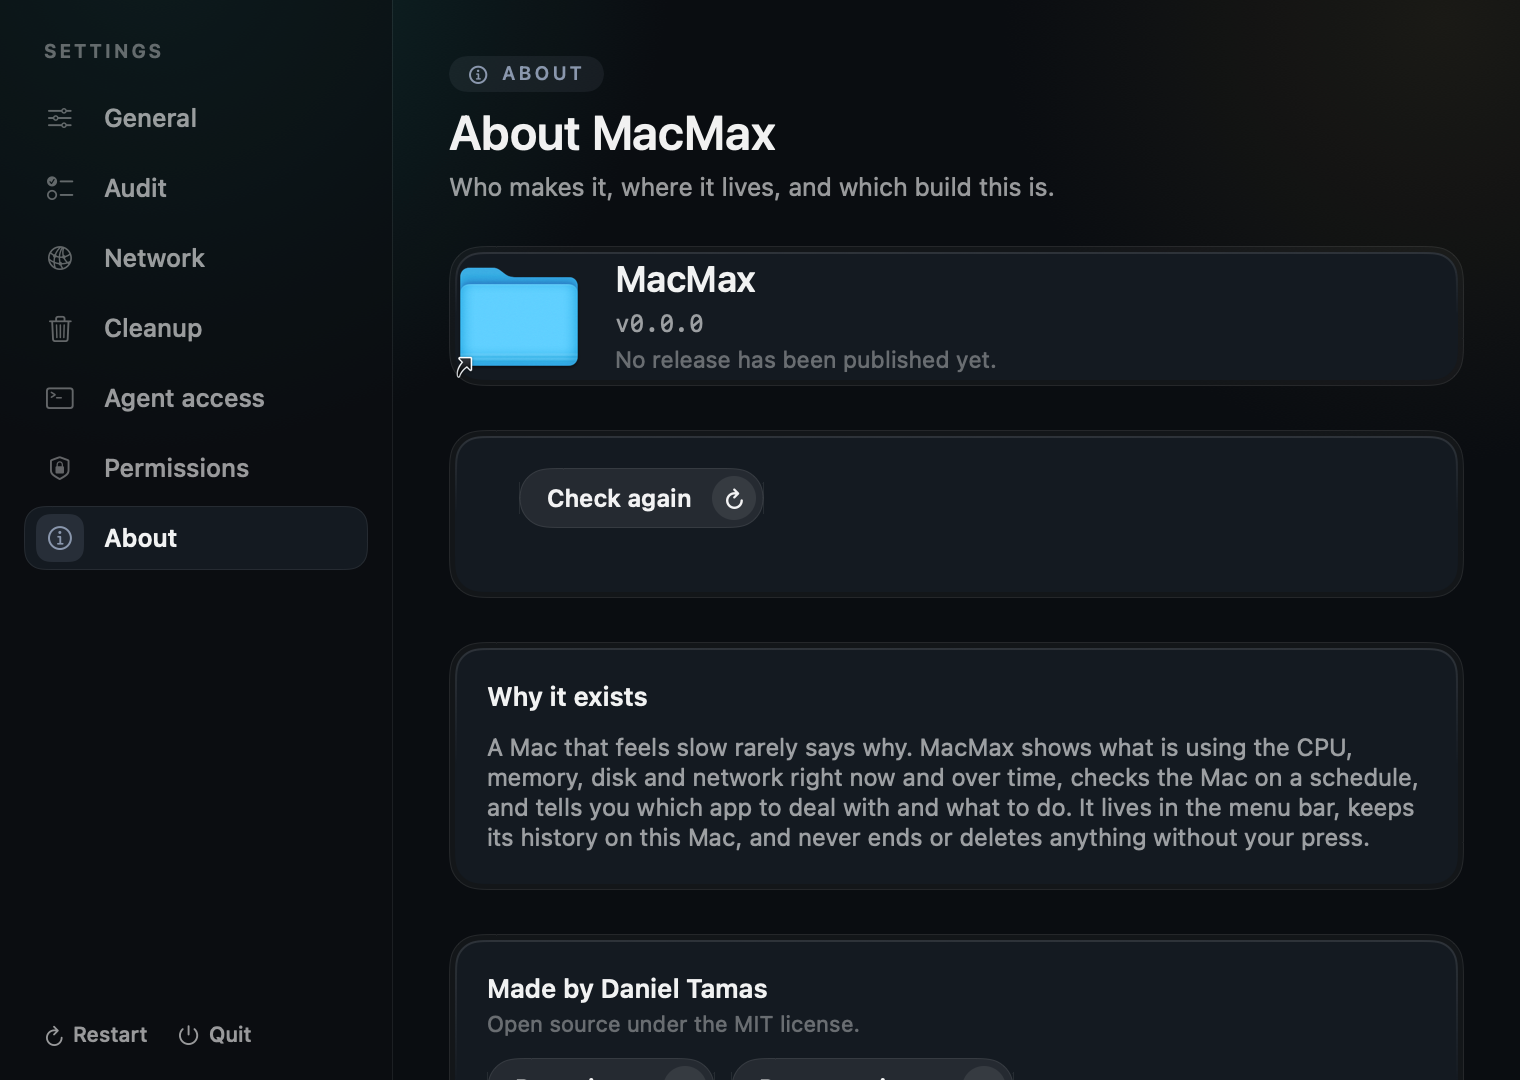
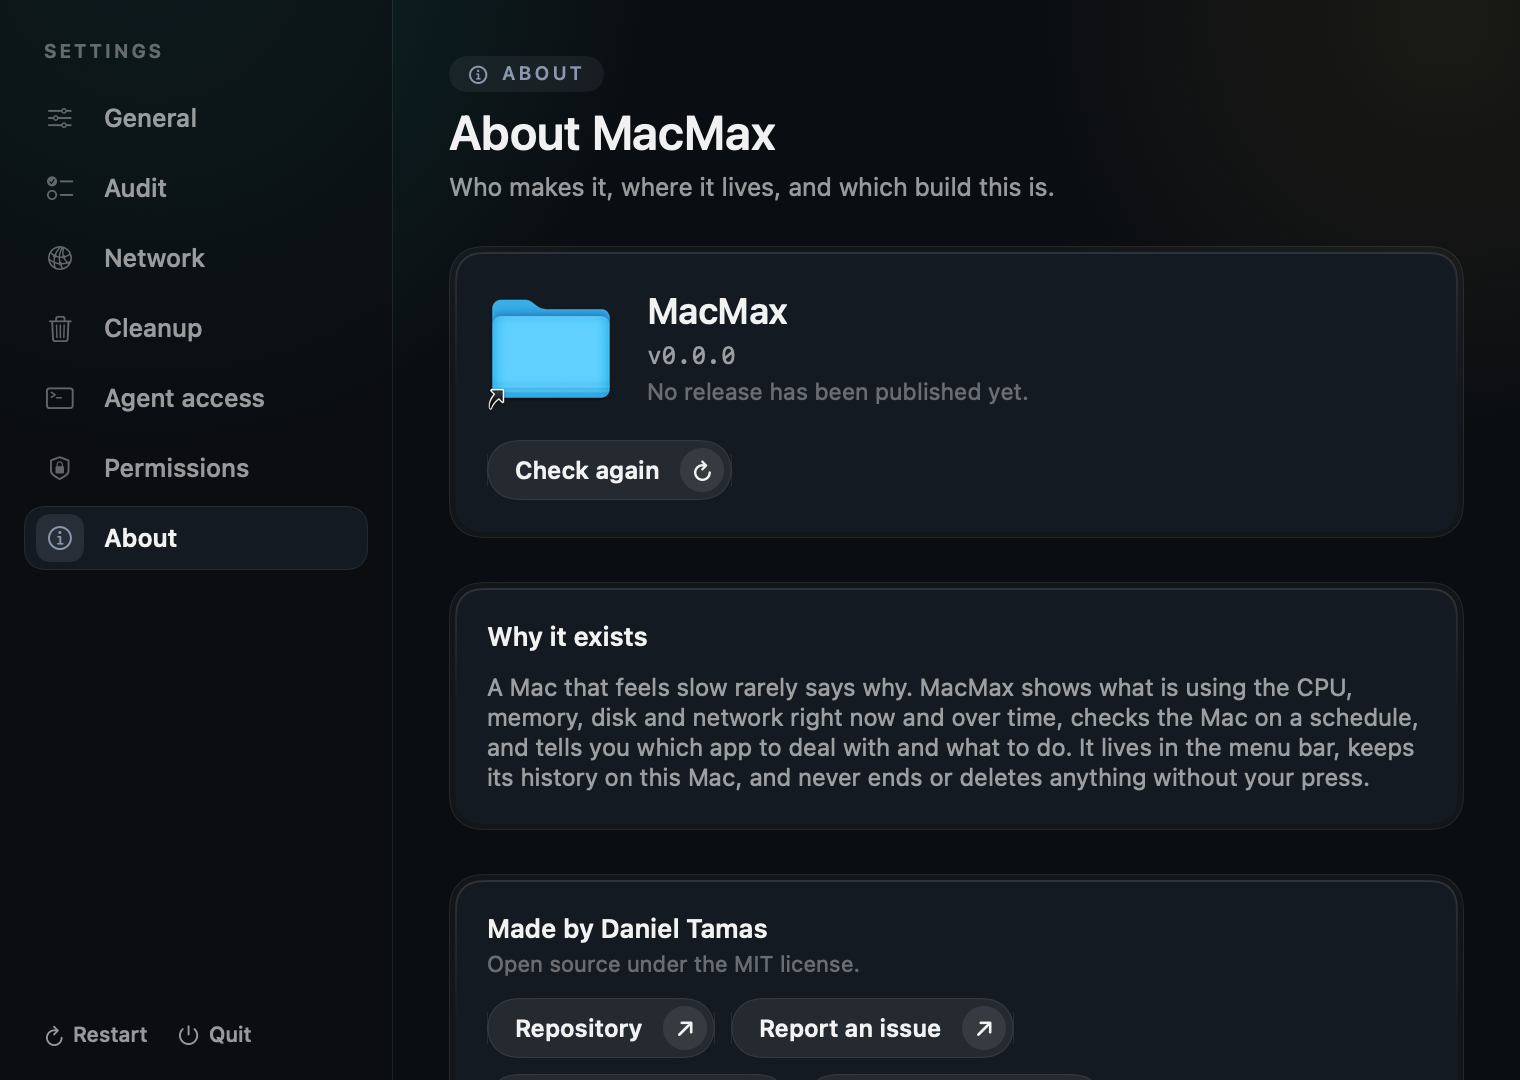
fix: the update buttons in About sit in the same card as the version

diff --git a/Sources/MacMax/SettingsAccess.swift b/Sources/MacMax/SettingsAccess.swift
@@ -96,26 +96,27 @@ struct AboutPane: View {
         VStack(alignment: .leading, spacing: 22) {
             PaneHeader(pane: .about, title: "About MacMax", detail: "Who makes it, where it lives, and which build this is.")
             Bezel {
-                HStack(alignment: .center, spacing: 16) {
-                    Image(nsImage: NSApp.applicationIconImage).resizable().frame(width: 64, height: 64)
-                    VStack(alignment: .leading, spacing: 4) {
-                        Text("MacMax").font(.system(size: 18, weight: .semibold)).foregroundStyle(Theme.textPrimary)
-                        Text(Self.versionLine).font(.system(size: 12, design: .monospaced)).foregroundStyle(Theme.textSecondary)
-                            .textSelection(.enabled)
-                        Text(standingText).font(.system(size: 11.5)).foregroundStyle(standingColor)
+                VStack(alignment: .leading, spacing: 14) {
+                    HStack(alignment: .center, spacing: 16) {
+                        Image(nsImage: NSApp.applicationIconImage).resizable().frame(width: 64, height: 64)
+                        VStack(alignment: .leading, spacing: 4) {
+                            Text("MacMax").font(.system(size: 18, weight: .semibold)).foregroundStyle(Theme.textPrimary)
+                            Text(Self.versionLine).font(.system(size: 12, design: .monospaced)).foregroundStyle(Theme.textSecondary)
+                                .textSelection(.enabled)
+                            Text(standingText).font(.system(size: 11.5)).foregroundStyle(standingColor)
+                        }
+                        Spacer()
                     }
-                    Spacer()
-                }
-                if let note = updateNote { Text(note).font(.meta).foregroundStyle(Theme.warn).padding(.horizontal, 16).padding(.bottom, 12) }
-                HStack(spacing: 8) {
-                    if let version = model.updateVersion {
-                        PillButton(title: model.updateState.isUpdating ? "Updating..." : "Update to \(version)", symbol: "arrow.down.circle",
-                                   prominent: true, disabled: model.updateState.isUpdating) { model.installUpdate() }
+                    if let note = updateNote { Text(note).font(.meta).foregroundStyle(Theme.warn).fixedSize(horizontal: false, vertical: true) }
+                    HStack(spacing: 8) {
+                        if let version = model.updateVersion {
+                            PillButton(title: model.updateState.isUpdating ? "Updating..." : "Update to \(version)", symbol: "arrow.down.circle",
+                                       prominent: true, disabled: model.updateState.isUpdating) { model.installUpdate() }
+                        }
+                        PillButton(title: "Check again", symbol: "arrow.clockwise", prominent: false,
+                                   disabled: model.releaseCheck.isChecking) { model.checkForUpdate() }
                     }
-                    PillButton(title: "Check again", symbol: "arrow.clockwise", prominent: false,
-                               disabled: model.releaseCheck.isChecking) { model.checkForUpdate() }
                 }
-                .padding(.horizontal, 16).padding(.bottom, 16)
                 .padding(16)
                 .frame(maxWidth: .infinity, alignment: .leading)
             }
